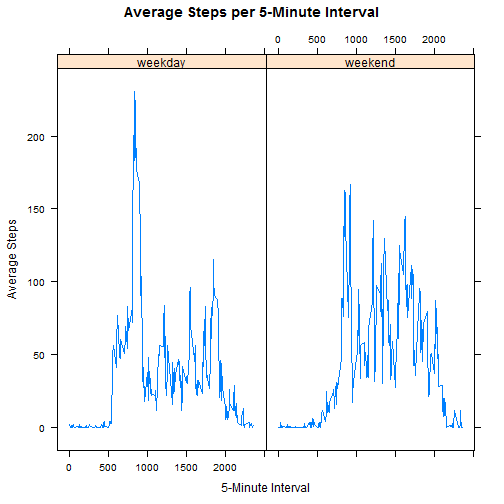
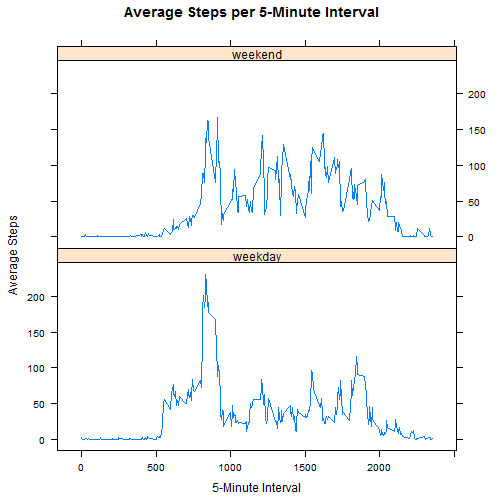
files added

diff --git a/PA1_template.html b/PA1_template.html
@@ -215,34 +215,43 @@ actDataFrame &lt;- read.csv(&quot;activity.csv&quot;, stringsAsFactors = FALSE)
 
 ## Convert data frame to data table which offers much better performance
 actDataTable &lt;- data.table(actDataFrame)
+
+## Displays the first part of the dataset
+head(actDataTable)
+</code></pre>
+
+<pre><code>##    steps       date interval
+## 1:    NA 2012-10-01        0
+## 2:    NA 2012-10-01        5
+## 3:    NA 2012-10-01       10
+## 4:    NA 2012-10-01       15
+## 5:    NA 2012-10-01       20
+## 6:    NA 2012-10-01       25
 </code></pre>
 
 <p>&nbsp;</p>
 
 <p>##What is the mean total number of steps taken per day?</p>
 
-<pre><code class="r">## Remove all records with the NA values
-actDataTableClean &lt;- na.omit(actDataTable)
+<pre><code class="r">## Calculate the total number of steps taken per day ignoring the NA values
+totalStepsPerDay &lt;- summarize(group_by(actDataTable, date), total_steps = sum(steps))
 
-## Calculate the total number of steps taken per day without the NA values
-totalStepsPerDay &lt;- summarize(group_by(actDataTableClean, date), total_steps = sum(steps))
-
-## Create a historgram with total steps per day
+## Create a historgram with total number of steps taken each day
 with(totalStepsPerDay, hist(total_steps,
-                            main = &quot;Total Steps Per Day&quot;,
+                            main = &quot;Total Number of Steps Per Day&quot;,
                             xlab = &quot;Total Steps&quot;,
                             ylab = &quot;Frequency&quot;,
                             col = &quot;Red&quot;,
                             ylim = c(0,30)))
 </code></pre>
 
[2 lines of base64/hex data omitted]
 
 <pre><code class="r">## Calculate the mean of the total number of steps per day
-meanTotalStepsPerDay &lt;- round(with(totalStepsPerDay, mean(total_steps)))
+meanTotalStepsPerDay &lt;- round(with(totalStepsPerDay, mean(total_steps, na.rm=TRUE)))
 
 ## Calculate the median of the total number of steps per day
-medianTotalStepsPerDay &lt;- round(with(totalStepsPerDay, median(total_steps)))
+medianTotalStepsPerDay &lt;- round(with(totalStepsPerDay, median(total_steps, na.rm=TRUE)))
 </code></pre>
 
 <p>The mean of the total number of steps taken per day is 10766.<br/>
@@ -251,10 +260,10 @@ The median of the total number of steps taken per day is 10765.<br/>
 
 <p>##What is the average daily activity pattern</p>
 
-<pre><code class="r">## Calculate the average number of steps taken per 5-minute interval without 
+<pre><code class="r">## Calculate the average number of steps taken per 5-minute interval ignoring 
 ## the NA values
-avgStepsPerInterval &lt;- summarize(group_by(actDataTableClean, interval), 
-                                          avg_steps = mean(steps))
+avgStepsPerInterval &lt;- summarize(group_by(actDataTable, interval), 
+                                          avg_steps = mean(steps, na.rm=TRUE))
 
 ## Create a time series plot of the 5-minute interval (x-axis) and the average
 ## number of steps taken, averaged across all days (y-axis)
@@ -284,8 +293,10 @@ across all the days in the dataset.<br/>
 <pre><code class="r">## Calculate the total number of missing values in the dataset
 totalNumberMissingValues &lt;- count(filter(actDataTable, is.na(steps)))
 
-##  Create a new dataset with all of the missing values in the original dataset
-## filled in with the mean for that 5-minute interval
+## Devise a strategy for filling in all of the missing values in the dataset. 
+## Create a new dataset with all of the missing values in the original dataset
+## filled in with the mean for that 5-minute interval across all days. 
+## It was calculated in the previous task (avgStepsPerInterval).
 actDataTableNew &lt;- actDataTable
 actDataTableNew$steps[is.na(actDataTableNew$steps)] &lt;- 
         avgStepsPerInterval[interval == actDataTableNew[is.na(steps), interval], avg_steps]
@@ -313,8 +324,11 @@ medianTotalStepPerDay &lt;- with(totalStepsPerDay, median(total_steps))
 
 <p>The total number of missing values in the dataset is 2304.<br/>
 The mean of the total number of steps taken per day is 10766.<br/>
-The median of the total number of steps taken per day is 10765.<br/>
-&nbsp;</p>
+The median of the total number of steps taken per day is 10765.  </p>
+
+<p>The mean and median do not differ from the estimates from the first part of the assignment.</p>
+
+<p>&nbsp;</p>
 
 <p>##Are there differences in activity patterns between weekdays and weekends?</p>
 
@@ -340,10 +354,11 @@ with(avgStepsPerInterval, xyplot(avg_steps ~ interval | day,
                                type = &quot;l&quot;,
                                main = &quot;Average Steps per 5-Minute Interval&quot;,
                                xlab = &quot;5-Minute Interval&quot;,
-                               ylab = &quot;Average Steps&quot;))
+                               ylab = &quot;Average Steps&quot;,
+                               layout=c(1,2)))
 </code></pre>
 
[2 lines of base64/hex data omitted]
 
 </body>
 

diff --git a/PA1_template.md b/PA1_template.md
@@ -18,6 +18,19 @@ actDataFrame <- read.csv("activity.csv", stringsAsFactors = FALSE)
 
 ## Convert data frame to data table which offers much better performance
 actDataTable <- data.table(actDataFrame)
+
+## Displays the first part of the dataset
+head(actDataTable)
+```
+
+```
+##    steps       date interval
+## 1:    NA 2012-10-01        0
+## 2:    NA 2012-10-01        5
+## 3:    NA 2012-10-01       10
+## 4:    NA 2012-10-01       15
+## 5:    NA 2012-10-01       20
+## 6:    NA 2012-10-01       25
 ```
 &nbsp;
 
@@ -25,15 +38,12 @@ actDataTable <- data.table(actDataFrame)
 ##What is the mean total number of steps taken per day?
 
 ```r
-## Remove all records with the NA values
-actDataTableClean <- na.omit(actDataTable)
+## Calculate the total number of steps taken per day ignoring the NA values
+totalStepsPerDay <- summarize(group_by(actDataTable, date), total_steps = sum(steps))
 
-## Calculate the total number of steps taken per day without the NA values
-totalStepsPerDay <- summarize(group_by(actDataTableClean, date), total_steps = sum(steps))
-
-## Create a historgram with total steps per day
+## Create a historgram with total number of steps taken each day
 with(totalStepsPerDay, hist(total_steps,
-                            main = "Total Steps Per Day",
+                            main = "Total Number of Steps Per Day",
                             xlab = "Total Steps",
                             ylab = "Frequency",
                             col = "Red",
@@ -44,10 +54,10 @@ with(totalStepsPerDay, hist(total_steps,
 
 ```r
 ## Calculate the mean of the total number of steps per day
-meanTotalStepsPerDay <- round(with(totalStepsPerDay, mean(total_steps)))
+meanTotalStepsPerDay <- round(with(totalStepsPerDay, mean(total_steps, na.rm=TRUE)))
 
 ## Calculate the median of the total number of steps per day
-medianTotalStepsPerDay <- round(with(totalStepsPerDay, median(total_steps)))
+medianTotalStepsPerDay <- round(with(totalStepsPerDay, median(total_steps, na.rm=TRUE)))
 ```
 The mean of the total number of steps taken per day is 10766.  
 The median of the total number of steps taken per day is 10765.  
@@ -57,10 +67,10 @@ The median of the total number of steps taken per day is 10765.
 ##What is the average daily activity pattern
 
 ```r
-## Calculate the average number of steps taken per 5-minute interval without 
+## Calculate the average number of steps taken per 5-minute interval ignoring 
 ## the NA values
-avgStepsPerInterval <- summarize(group_by(actDataTableClean, interval), 
-                                          avg_steps = mean(steps))
+avgStepsPerInterval <- summarize(group_by(actDataTable, interval), 
+                                          avg_steps = mean(steps, na.rm=TRUE))
 
 ## Create a time series plot of the 5-minute interval (x-axis) and the average
 ## number of steps taken, averaged across all days (y-axis)
@@ -92,8 +102,10 @@ across all the days in the dataset.
 ## Calculate the total number of missing values in the dataset
 totalNumberMissingValues <- count(filter(actDataTable, is.na(steps)))
 
-##  Create a new dataset with all of the missing values in the original dataset
-## filled in with the mean for that 5-minute interval
+## Devise a strategy for filling in all of the missing values in the dataset. 
+## Create a new dataset with all of the missing values in the original dataset
+## filled in with the mean for that 5-minute interval across all days. 
+## It was calculated in the previous task (avgStepsPerInterval).
 actDataTableNew <- actDataTable
 actDataTableNew$steps[is.na(actDataTableNew$steps)] <- 
         avgStepsPerInterval[interval == actDataTableNew[is.na(steps), interval], avg_steps]
@@ -122,6 +134,9 @@ medianTotalStepPerDay <- with(totalStepsPerDay, median(total_steps))
 The total number of missing values in the dataset is 2304.  
 The mean of the total number of steps taken per day is 10766.  
 The median of the total number of steps taken per day is 10765.  
+
+The mean and median do not differ from the estimates from the first part of the assignment.
+
 &nbsp;
 
 
@@ -150,7 +165,8 @@ with(avgStepsPerInterval, xyplot(avg_steps ~ interval | day,
                                type = "l",
                                main = "Average Steps per 5-Minute Interval",
                                xlab = "5-Minute Interval",
-                               ylab = "Average Steps"))
+                               ylab = "Average Steps",
+                               layout=c(1,2)))
 ```
 
 ![plot of chunk unnamed-chunk-5](figure/unnamed-chunk-5-1.png) 
